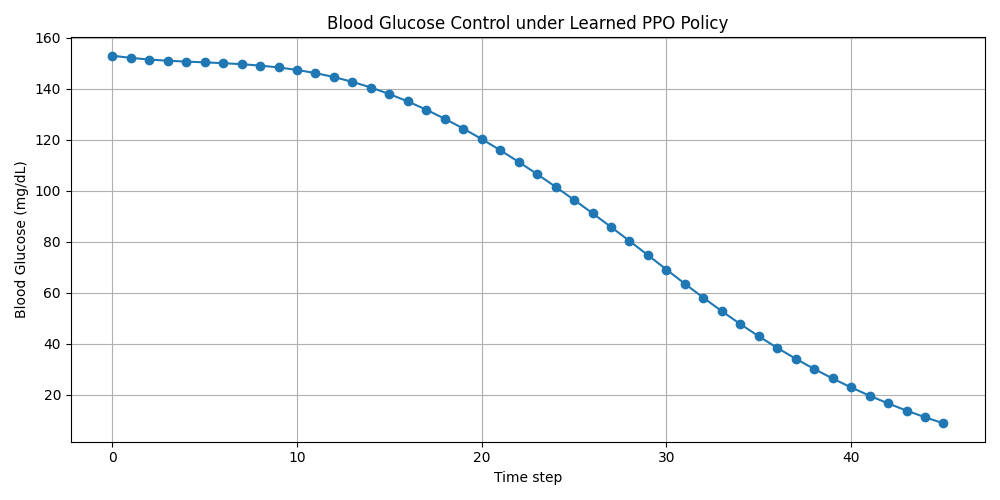
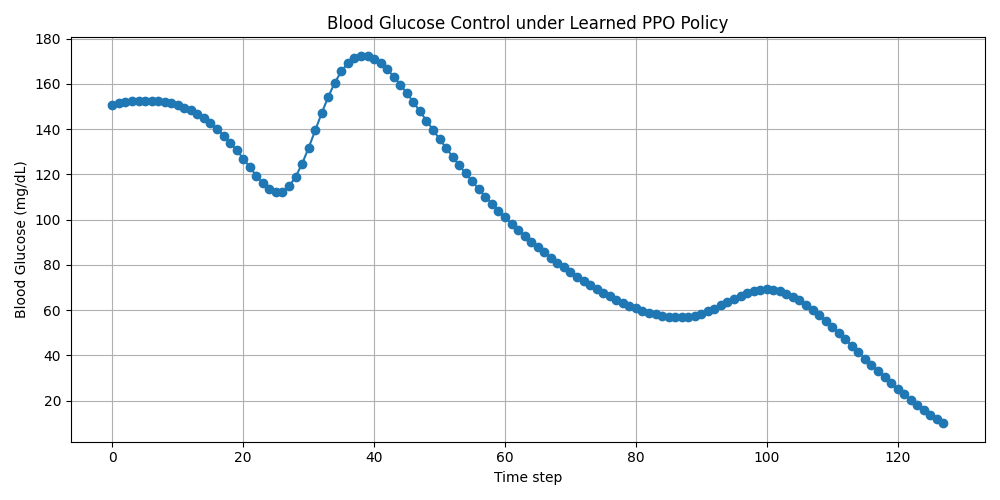
New Reward + png

diff --git a/simglucose_rl_try.py b/simglucose_rl_try.py
@@ -3,6 +3,7 @@ import pickle
 import pandas as pd
 import numpy as np
 from collections import deque
+import math
 
 import gymnasium as gym
 from gymnasium.envs.registration import register
@@ -18,42 +19,15 @@ from stable_baselines3.common.evaluation import evaluate_policy
 from stable_baselines3.common.monitor import Monitor
 from stable_baselines3.common.callbacks import EvalCallback
 
-def clipped_reward(pred_bg: float) -> float:
-    """
-    pred_bg: 1시간 후 예측 혈당 값
-    반환값: 혈당 범위별로 정의된 보상 (clipped 형태)
-    """
-    if 80 <= pred_bg <= 140:
-        # 정상 구간: 최대 +1
-        return +1.0
-    elif 70 <= pred_bg < 80:
-        # 약간 저혈당: 약간의 마이너스
-        return -0.5
-    elif 140 < pred_bg <= 180:
-        # 약간 고혈당: 약간의 마이너스
-        return -0.5
-    elif pred_bg < 70:
-        # 심각한 저혈당: 큰 음수
-        return -2.0 - 0.05 * (70 - pred_bg)
-    else:  # pred_bg > 180
-        # 심각한 고혈당: 중간 음수
-        return -2.0 - 0.02 * (pred_bg - 180)
-
 # 1) simglucose 환경 등록
 register(
     id="simglucose-adol2-v0",
     entry_point="simglucose.envs:T1DSimGymnaisumEnv",
     max_episode_steps=200,
-    kwargs={
-        "patient_name": "adolescent#002",
-    },
+    kwargs={"patient_name": "adolescent#002"},
 )
 
 class MultiHistoryWrapper(Wrapper):
-    """
-    - 과거 history_length 스텝만큼의 혈당(bg), 식사(meal), 인슐린(insulin) 이력을 저장하여
-      info["hist_bg"], info["hist_meal"], info["hist_insulin"]에 numpy 배열 형태로 추가
-    """
     def __init__(self, env, history_length: int = 12):
         super().__init__(env)
         self.history_length = history_length
@@ -65,7 +39,7 @@ class MultiHistoryWrapper(Wrapper):
         obs, info = self.env.reset(**kwargs)
         init_bg   = info["bg"]
         init_meal = info["meal"]
-        init_ins  = 0.0  # reset 직후엔 action이 없으므로 0으로 초기화
+        init_ins  = 0.0
         for _ in range(self.history_length):
             self.bg_buf.append(init_bg)
             self.meal_buf.append(init_meal)
@@ -77,11 +51,7 @@ class MultiHistoryWrapper(Wrapper):
 
     def step(self, action):
         obs, reward, terminated, truncated, info = self.env.step(action)
-        # action이 배열 형태일 수 있어, 스칼라 값으로 변환
-        if isinstance(action, (np.ndarray, list, tuple)):
-            ins = float(np.array(action).ravel()[0])
-        else:
-            ins = float(action)
+        ins = float(np.array(action).ravel()[0]) if isinstance(action, (np.ndarray, list, tuple)) else float(action)
         self.bg_buf.append(info["bg"])
         self.meal_buf.append(info["meal"])
         self.insulin_buf.append(ins)
@@ -91,12 +61,8 @@ class MultiHistoryWrapper(Wrapper):
         return obs, reward, terminated, truncated, info
 
 class LGBMRewardWrapper(Wrapper):
-    """
-    - LightGBM으로 1스텝 후 혈당(pred_bg)을 예측하여 clipped_reward(pred_bg) 반환
-    """
     def __init__(self, env, model_path: str):
         super().__init__(env)
-        # 스크립트 파일이 위치한 폴더를 기준으로 pkl 파일 절대 경로 생성
         base_dir = os.path.dirname(os.path.realpath(__file__))
         abs_model_path = os.path.join(base_dir, model_path)
         with open(abs_model_path, "rb") as f:
@@ -105,25 +71,27 @@ class LGBMRewardWrapper(Wrapper):
         self.regressor   = self.pipeline.named_steps["regressor"]
         self.bg_gap = 5
 
+    def gaussian_reward(self, pred_bg: float, target: float = 125.0, sigma: float = 25.0) -> float:
+        return math.exp(-0.5 * ((pred_bg - target) / sigma) ** 2)
+
     def step(self, action):
         obs, _, terminated, truncated, info = self.env.step(action)
 
-        # 1) 시간 표현: 시각 → sin, cos
+        # 시간 -> sin/cos
         t = info["time"]
         minutes = t.hour * 60 + t.minute
         sin_t = np.sin(2 * np.pi * minutes / 1440)
         cos_t = np.cos(2 * np.pi * minutes / 1440)
 
-        # 2) 과거 히스토리와 현재 혈당
-        hist_bg      = info["hist_bg"]       # shape=(history_length,)
+        # 히스토리
+        hist_bg      = info["hist_bg"]
         current_bg   = float(info["bg"])
-        bg_lags      = np.concatenate([[current_bg], hist_bg])  # (history_length+1,)
-        bg_diff      = np.diff(bg_lags)                       # (history_length,)
-        insulin_hist = info["hist_insulin"]  # (history_length,)
-        carbs_hist   = info["hist_meal"]     # (history_length,)
+        bg_lags      = np.concatenate([[current_bg], hist_bg])
+        bg_diff      = np.diff(bg_lags)
+        insulin_hist = info["hist_insulin"]
+        carbs_hist   = info["hist_meal"]
 
-        # 3) 피처 배열 생성
-        #    p_num, bg_gap, sin_t, cos_t, 현재 bg, past bg, bg_diff, past insulin, past carbs
+        # 피처 생성
         p_num = "p02"
         feat_arr = np.concatenate([
             [p_num], [self.bg_gap], [sin_t], [cos_t],
@@ -131,24 +99,34 @@ class LGBMRewardWrapper(Wrapper):
             insulin_hist, carbs_hist
         ]).reshape(1, -1)
 
-        # 4) DataFrame으로 변환 (feature_names_in_ 순서 사용)
         input_cols = list(self.transformer.feature_names_in_)
         feat_df    = pd.DataFrame(feat_arr, columns=input_cols)
         for c in feat_df.columns:
             if c != "p_num":
                 feat_df[c] = feat_df[c].astype(float)
 
-        # 5) Transformer → 예측
+        # 예측
         Xt = self.transformer.transform(feat_df)
         if isinstance(Xt, pd.DataFrame):
             Xt = Xt.astype(float)
         pred_bg = float(self.regressor.predict(Xt)[0])
 
-        # 6) clipped_reward → 최종 보상
-        new_reward = clipped_reward(pred_bg)
-        new_reward = np.clip(new_reward, -1.0, 1.0)
+        # 보상 계산: gaussian + severe penalty + delta 보너스
+        reward = self.gaussian_reward(pred_bg)
+        # 극단적 hypo/hype 페널티
+        if pred_bg < 70:
+            reward -= (1.0 + 0.05 * (70 - pred_bg))
+        elif pred_bg > 180:
+            reward -= (1.0 + 0.02 * (pred_bg - 180))
 
+        # 상승 보너스
+        delta = pred_bg - current_bg
+        if current_bg < 80 and delta > 0:
+            reward += 0.2 * (delta / 10.0)
+
+        new_reward = np.clip(reward, -1.0, 1.0)
         return obs, new_reward, terminated, truncated, info
+
 
 def make_env():
     base = gym.make("simglucose-adol2-v0")
@@ -157,13 +135,11 @@ def make_env():
     rew  = LGBMRewardWrapper(mon, model_path="lgbm_model.pkl")
     return rew
 
+
 def main():
     os.makedirs("logs", exist_ok=True)
 
-    # 1) DummyVecEnv으로 병렬 환경(n_envs=4) 생성
     vec_env = DummyVecEnv([make_env for _ in range(4)])
-
-    # 2) PPO 에이전트 초기화 (TensorBoard 로그 지정)
     model = PPO(
         "MlpPolicy",
         vec_env,
@@ -171,7 +147,6 @@ def main():
         tensorboard_log="./logs/"
     )
 
-    # 3) 평가용 환경 및 콜백 설정
     eval_env = Monitor(make_env())
     eval_callback = EvalCallback(
         eval_env,
@@ -182,37 +157,29 @@ def main():
         deterministic=True
     )
 
-    # 4) 학습 (200k timesteps)
     model.learn(total_timesteps=200_000, callback=eval_callback)
     model.save("ppo_simglucose_hist_tree_adol2")
 
-    # 5) 학습된 모델 평가 (10 에피소드)
     mean_reward, std_reward = evaluate_policy(
         model, vec_env, n_eval_episodes=10, render=False
     )
     print(f"[Evaluation] Mean reward: {mean_reward:.2f} ± {std_reward:.2f}")
 
-    # 6) 단일 환경으로 롤아웃 시연 (혈당 변화 시각화 예시)
     single = make_env()
     obs, info = single.reset(seed=123)
     bg_history = []
     time_steps = []
-    max_steps = single.env.env.env.spec.max_episode_steps  # '!Monitor → MultiHistoryWrapper → 원 env' 순서로 감싸져 있으므로 .env.env.env
+    max_steps = single.env.env.env.spec.max_episode_steps
 
     for t in range(max_steps):
         action, _ = model.predict(obs, deterministic=True)
-        obs, reward, terminated, truncated, info = single.step(action)
-
-        # info["bg"]를 통해 현재 혈당 추출
-        bg = info["bg"]
-        bg_history.append(bg)
+        obs, _, terminated, truncated, info = single.step(action)
+        bg_history.append(info["bg"])
         time_steps.append(t)
-
         if terminated or truncated:
             print(f"Demo finished at step {t+1}")
             break
 
-    # 7) 혈당 변화 플롯 저장
     import matplotlib.pyplot as plt
     plt.figure(figsize=(10, 5))
     plt.plot(time_steps, bg_history, marker='o')
